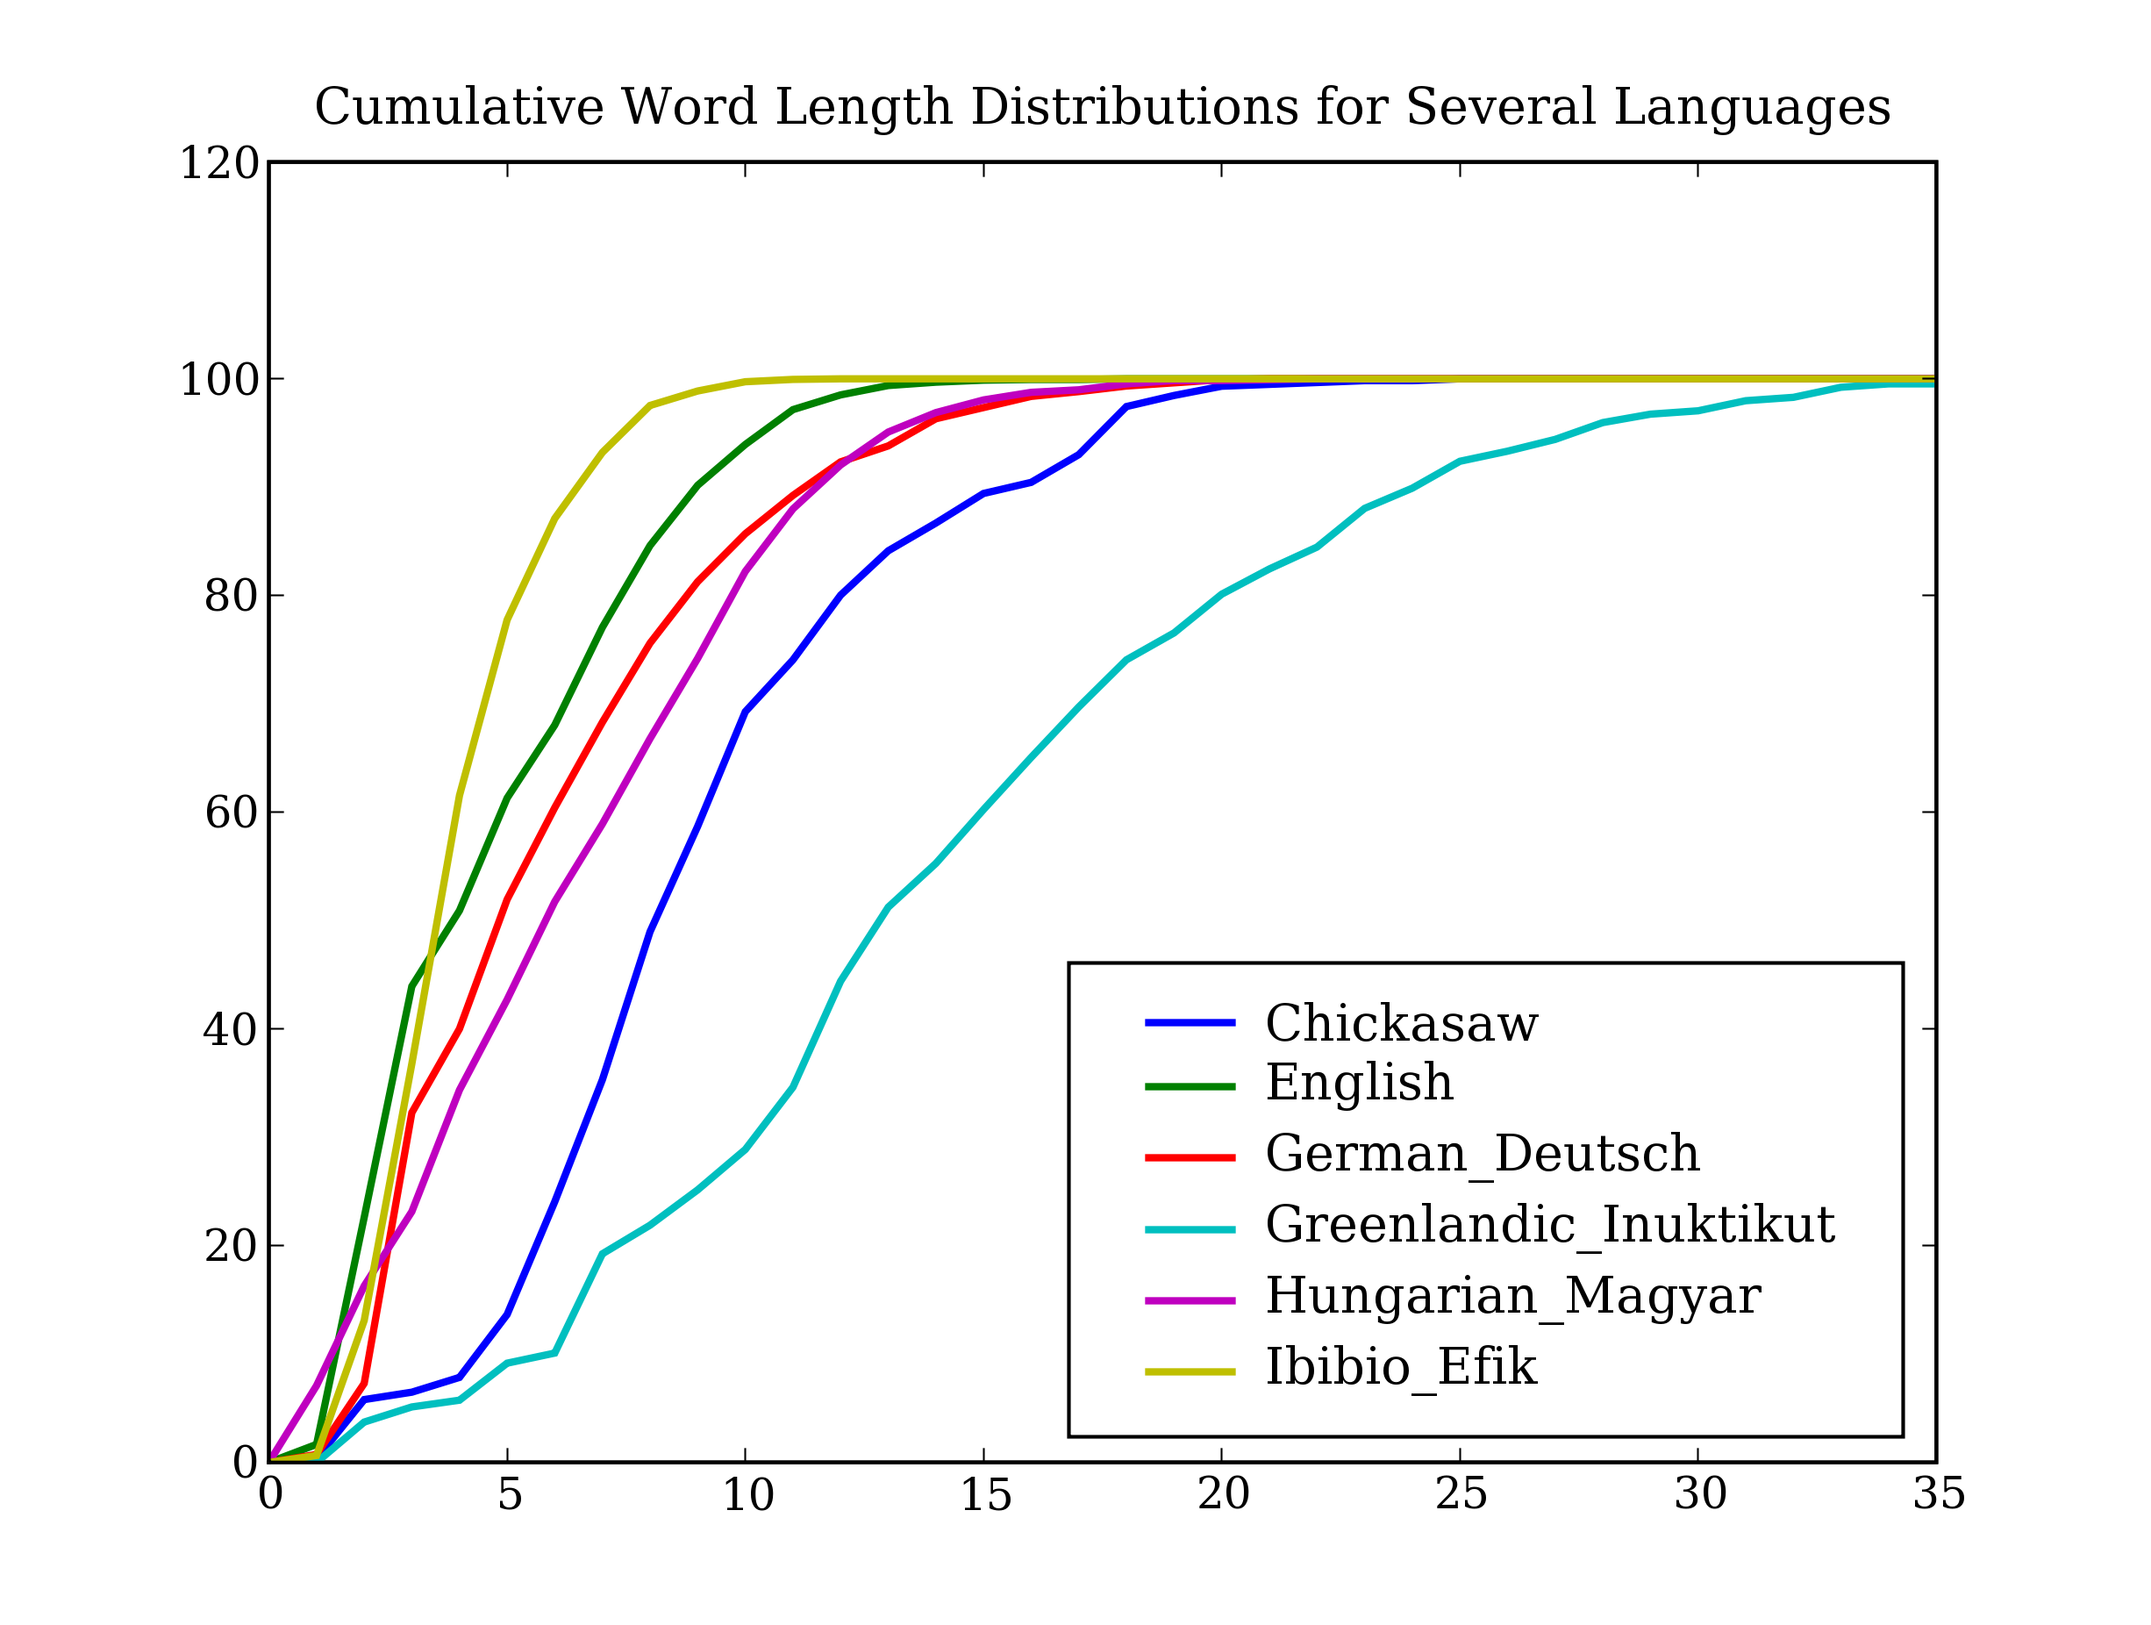
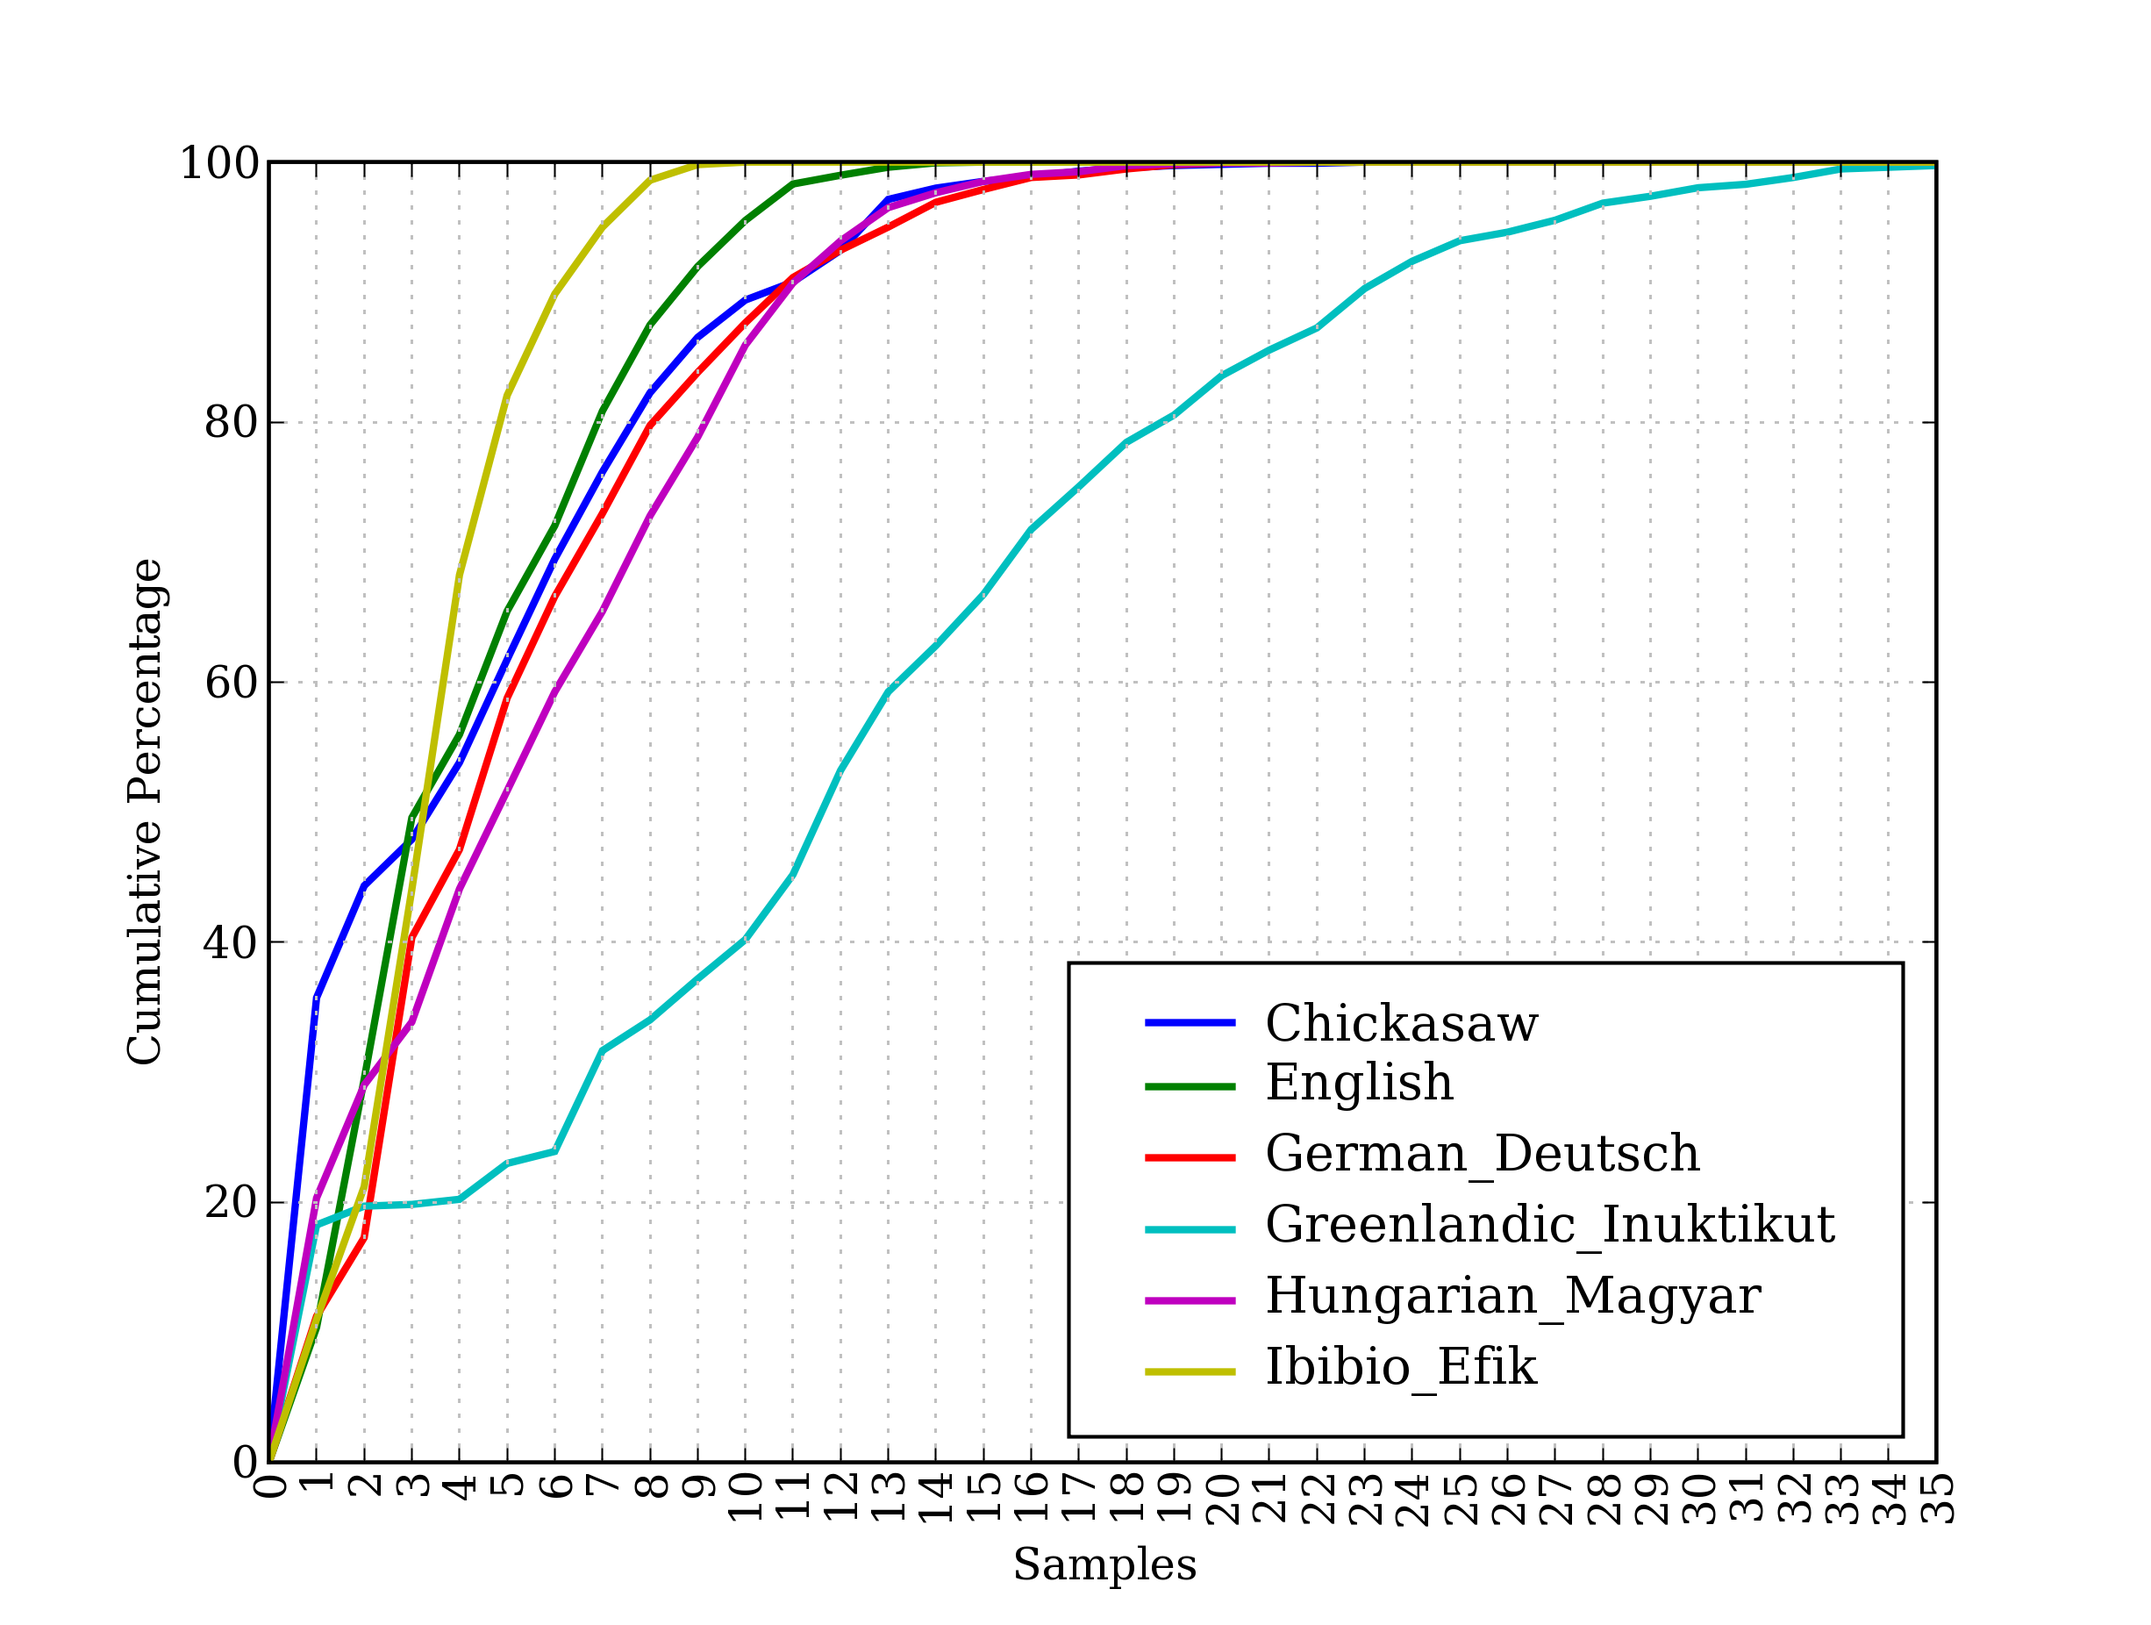
ch02.rst * replaced 13-line pylisting with 3-line example that uses   the new ConditionalFreqDist.plot() method to achieve the   same graphical display as before; thanks to its compactness   its now feasible for readers to experiment with this kind   of plotting interactively.
ch05-draft.rst:
* Moved opening discussion to the NLP overview in chapter 1,
  since it was rather long and a bit too generic for its current
  position at the start of chapter 5.

nltk/probability.py
* added plot method to ConditionalFreqDist, in order to make
  multiline cumulative plots easier to produce (cf the
  cumulative word-length distribution graph in chapter 1)
* ConditionalFreqDist.conditions() now sorts its conditions
  so they are listed in a deterministic order
* Refactored FreqDist.plot() and ConditionalFreqDist.plot()
  and put shared computation in FreqDist._cumulative_frequencies().
  Made this function more efficient (now linear, was n^2).

doc/images/word-len-dist.png
* updated with output from new plot method

svn/trunk@6642

diff --git a/en/ch05-draft.rst b/en/ch05-draft.rst
@@ -10,10 +10,10 @@
 .. _chap-data-intensive:
 
 =====================================
-4. Data-Intensive Language Processing
+5. Data-Intensive Language Processing
 =====================================
 
-.. _ch04-introduction:
+.. _ch05-introduction:
 
 ------------
 Introduction
@@ -37,93 +37,6 @@ covering manual approaches to exploring linguistic data in Section sec-explorato
 and automatic approaches in Section sec-data-modeling_.
 
 .. more motivation and overview of this simple ontology (manual vs automatic)
-
-------------------------------------------
-Exploiting Patterns to Understand Language
-------------------------------------------
-
-For example, in `word sense disambiguation`:dt: we want to work out
-which sense of a word was intended in a given context.  Consider the
-ambiguous words `serve`:lx: and `dish`:lx:\ :
-
-.. ex::
-    .. ex:: `serve`:lx:\ : help with food or drink; hold an office; put ball into play
-    .. ex:: `dish`:lx:\ : plate; course of a meal; communications device
-
-|nopar|
-Now, in a sentence containing the phrase: `he served the dish`:lx: we
-can detect that both `serve`:lx: and `dish`:lx: are being used with
-their food meanings.  Its unlikely that the topic of discussion
-shifted from sports to communications between these words, since it
-would result in bizarre interpretations like striking a satellite dish
-with a tennis racquet:
-
-.. ex::
-    In a fit of fury, he tossed the portable satellite receiver in the air, and with
-    a quick flick of his tennis racquet, he served the dish.
-
-In other words, we automatically disambiguate words using context, exploiting
-the simple fact that nearby words have closely related meanings.
-As another example of this contextual effect, consider the word
-`by`:lx:, which has three meanings: `the book by Chesterton`:lx: (agentive);
-`the cup by the stove`:lx: (locative); and `submit by Friday`:lx: (temporal).
-Observe in lost-children_ that the meaning of the italicized word helps us
-interpret the meaning of `by`:lx:.
-
-.. _lost-children:
-.. ex::
-   .. ex:: The lost children were found by the `searchers`:em:  (agentive)
-   .. ex:: The lost children were found by the `mountain`:em:   (locative)
-   .. ex:: The lost children were found by the `afternoon`:em:  (temporal)
-
-A deeper kind of language understanding is to work out who did what to whom |mdash|
-i.e. to detect the subjects and objects of verbs.
-In the sentence `the thieves stole the paintings`:lx:
-it is easy to tell who performed the stealing action.
-Consider three possible following sentences in thieves_, and try to determine
-what was sold, caught, and found (one case is ambiguous).
-  
-.. _thieves:
-.. ex::
-   .. ex:: The thieves stole the paintings.  They were subsequently `sold`:em:.
-   .. ex:: The thieves stole the paintings.  They were subsequently `caught`:em:.
-   .. ex:: The thieves stole the paintings.  They were subsequently `found`:em:.
-
-|nopar|
-Answering this question involves finding the `antecedent`:dt: of the pronoun `they`:lx:
-(the theives or the paintings).  Computational techniques for solving this problem
-fall under the heading of `semantic role labeling`:dt:.
-If we can automatically solve such problems, we will have understood enough of the
-text to perform some important language generation tasks, such as
-`question answering`:idx: and `machine translation`:idx:.  In the first case,
-a machine should be able to answer a user's questions relating to collection of texts:
-
-.. _qa-application:
-.. ex::
-   .. ex:: *Text:* ... The thieves stole the paintings.  They were subsequently sold. ...
-   .. ex:: *Human:* Who or what was sold?
-   .. ex:: *Machine:* The paintings.
-
-|nopar|
-The machine's answer demonstrates that it has correctly worked out that `they`:lx:
-refers to paintings and not to theives.  In the second case, the machine should
-be able to produce a translation of the text into another language, accurately
-conveying the meaning of the original text.  In translating the above text into French,
-we are forced to choose the gender of the pronoun in the second sentence:
-`ils`:lx: (masculine) if the thieves are sold, and `elles`:lx: (feminine) if
-the paintings are sold.  Correct translation actually depends on correct understanding of
-the pronoun.
-
-.. _mt-application:
-.. ex::
-   .. ex:: The thieves stole the paintings.  They were subsequently sold.
-   .. ex:: Les voleurs ont vol\ |eacute| les peintures. *Ils* ont |eacute|\ t\ |eacute| *vendus* plus tard.  (the thieves)
-   .. ex:: Les voleurs ont vol\ |eacute| les peintures. *Elles* ont |eacute|\ t\ |eacute| *vendues* plus tard.  (the paintings)
-    
-In all of the above examples |mdash| working out the sense of a word, the subject of a verb, the 
-antecedent of a pronoun |mdash| are steps in establishing the meaning of a sentence, things
-we would expect a language understanding system to be able to do.  Interestingly, all of them
-turn out to involve `classification`:dt:, tagging a word with a sense tag, a verb-argument tag, etc.
 
 We have already seen the application of
 classification in the case of part-of-speech tagging (Chapter chap-tag_).

diff --git a/en/ch01.rst b/en/ch01.rst
@@ -1196,6 +1196,94 @@ the solution of real-world problems.
    summarization, and would need to be carried out on a scale and with a
    level of robustness that is still beyond our current capabilities.
 
+Exploiting Patterns to Understand Language
+------------------------------------------
+
+For example, in `word sense disambiguation`:dt: we want to work out
+which sense of a word was intended in a given context.  Consider the
+ambiguous words `serve`:lx: and `dish`:lx:\ :
+
+.. ex::
+    .. ex:: `serve`:lx:\ : help with food or drink; hold an office; put ball into play
+    .. ex:: `dish`:lx:\ : plate; course of a meal; communications device
+
+|nopar|
+Now, in a sentence containing the phrase: `he served the dish`:lx: we
+can detect that both `serve`:lx: and `dish`:lx: are being used with
+their food meanings.  Its unlikely that the topic of discussion
+shifted from sports to communications between these words, since it
+would result in bizarre interpretations like striking a satellite dish
+with a tennis racquet:
+
+.. ex::
+    In a fit of fury, he tossed the portable satellite receiver in the air, and with
+    a quick flick of his tennis racquet, he served the dish.
+
+In other words, we automatically disambiguate words using context, exploiting
+the simple fact that nearby words have closely related meanings.
+As another example of this contextual effect, consider the word
+`by`:lx:, which has three meanings: `the book by Chesterton`:lx: (agentive);
+`the cup by the stove`:lx: (locative); and `submit by Friday`:lx: (temporal).
+Observe in lost-children_ that the meaning of the italicized word helps us
+interpret the meaning of `by`:lx:.
+
+.. _lost-children:
+.. ex::
+   .. ex:: The lost children were found by the `searchers`:em:  (agentive)
+   .. ex:: The lost children were found by the `mountain`:em:   (locative)
+   .. ex:: The lost children were found by the `afternoon`:em:  (temporal)
+
+A deeper kind of language understanding is to work out who did what to whom |mdash|
+i.e. to detect the subjects and objects of verbs.
+In the sentence `the thieves stole the paintings`:lx:
+it is easy to tell who performed the stealing action.
+Consider three possible following sentences in thieves_, and try to determine
+what was sold, caught, and found (one case is ambiguous).
+  
+.. _thieves:
+.. ex::
+   .. ex:: The thieves stole the paintings.  They were subsequently `sold`:em:.
+   .. ex:: The thieves stole the paintings.  They were subsequently `caught`:em:.
+   .. ex:: The thieves stole the paintings.  They were subsequently `found`:em:.
+
+|nopar|
+Answering this question involves finding the `antecedent`:dt: of the pronoun `they`:lx:
+(the theives or the paintings).  Computational techniques for solving this problem
+fall under the heading of `semantic role labeling`:dt:.
+If we can automatically solve such problems, we will have understood enough of the
+text to perform some important language generation tasks, such as
+`question answering`:idx: and `machine translation`:idx:.  In the first case,
+a machine should be able to answer a user's questions relating to collection of texts:
+
+.. _qa-application:
+.. ex::
+   .. ex:: *Text:* ... The thieves stole the paintings.  They were subsequently sold. ...
+   .. ex:: *Human:* Who or what was sold?
+   .. ex:: *Machine:* The paintings.
+
+|nopar|
+The machine's answer demonstrates that it has correctly worked out that `they`:lx:
+refers to paintings and not to theives.  In the second case, the machine should
+be able to produce a translation of the text into another language, accurately
+conveying the meaning of the original text.  In translating the above text into French,
+we are forced to choose the gender of the pronoun in the second sentence:
+`ils`:lx: (masculine) if the thieves are sold, and `elles`:lx: (feminine) if
+the paintings are sold.  Correct translation actually depends on correct understanding of
+the pronoun.
+
+.. _mt-application:
+.. ex::
+   .. ex:: The thieves stole the paintings.  They were subsequently sold.
+   .. ex:: Les voleurs ont vol\ |eacute| les peintures. *Ils* ont |eacute|\ t\ |eacute| *vendus* plus tard.  (the thieves)
+   .. ex:: Les voleurs ont vol\ |eacute| les peintures. *Elles* ont |eacute|\ t\ |eacute| *vendues* plus tard.  (the paintings)
+    
+In all of the above examples |mdash| working out the sense of a word, the subject of a verb, the 
+antecedent of a pronoun |mdash| are steps in establishing the meaning of a sentence, things
+we would expect a language understanding system to be able to do.  Interestingly, all of them
+turn out to involve `classification`:dt:, tagging a word with a sense tag, a verb-argument tag, etc,
+a topic we will return to in Chapter chap-data-intensive_.
+
+
 -------
 Summary
 -------

diff --git a/en/ch02.rst b/en/ch02.rst
@@ -11,15 +11,16 @@
 2. Corpora: Large Bodies of Text
 ================================
 
+[Introduction]
 
 The goal of this chapter is to answer the following questions:
 
+#. how can we write programs to access text from wider range
+   of |NLTK| corpora?
 #. how can we write programs to access text from local files and
    from the web, in order to get hold of an unlimited range of
    language material?
-
-
-
+#. what new Python idioms are needed?
 
 .. _sec-extracting-text-from-corpora:
 
@@ -296,30 +297,15 @@ The last of these corpora, ``udhr`` contains the Universal Declaration of Human 
 in over 300 languages.  (Note that the names of the files in this corpus include
 information about character encoding, and for now we will stick with texts in ISO Latin-1, or ASCII)
 
-Let's use a frequency distribution to examine the differences in word lengths,
+Let's use a conditional frequency distribution to examine the differences in word lengths,
 for a selection of languages included in this corpus.
-The program in Figure word-len-dist_ goes beyond the methods covered in this chapter,
-and is included to give you a sense of what is to come later. 
 The output is shown in Figure fig-word-len-dist_ (run the program yourself to see a color plot).
 
-.. pylisting:: word-len-dist
-   :caption: Cumulative Word Length Distributions for Several Languages
-
-   import pylab
-
-   def cld(lang):
-       text = nltk.corpus.udhr.words(lang)
-       fd = nltk.FreqDist(len(token) for token in text)
-       ld = [100*fd.freq(i) for i in range(36)]
-       return [sum(ld[0:i+1]) for i in range(len(ld))]
-
-   >>> langs = ['Chickasaw-Latin1', 'English-Latin1',
-   ...          'German_Deutsch-Latin1', 'Greenlandic_Inuktikut-Latin1',
-   ...          'Hungarian_Magyar-Latin1', 'Ibibio_Efik-Latin1']
-   >>> dists = [pylab.plot(cld(l), label=l[:-7], linewidth=2) for l in langs]
-   >>> pylab.title('Cumulative Word Length Distributions for Several Languages')
-   >>> pylab.legend(loc='lower right')
-   >>> pylab.show()     # doctest: +SKIP
+    >>> languages = ['Chickasaw', 'English', 'German_Deutsch',
+    ...     'Greenlandic_Inuktikut', 'Hungarian_Magyar', 'Ibibio_Efik']
+    >>> cfd = nltk.ConditionalFreqDist((lang, len(word)) for lang in languages
+    ...          for word in nltk.corpus.udhr.words(lang + "-Latin1"))
+    >>> cfd.plot(range(36))
 
 .. _fig-word-len-dist:
 .. figure:: ../images/word-len-dist.png
